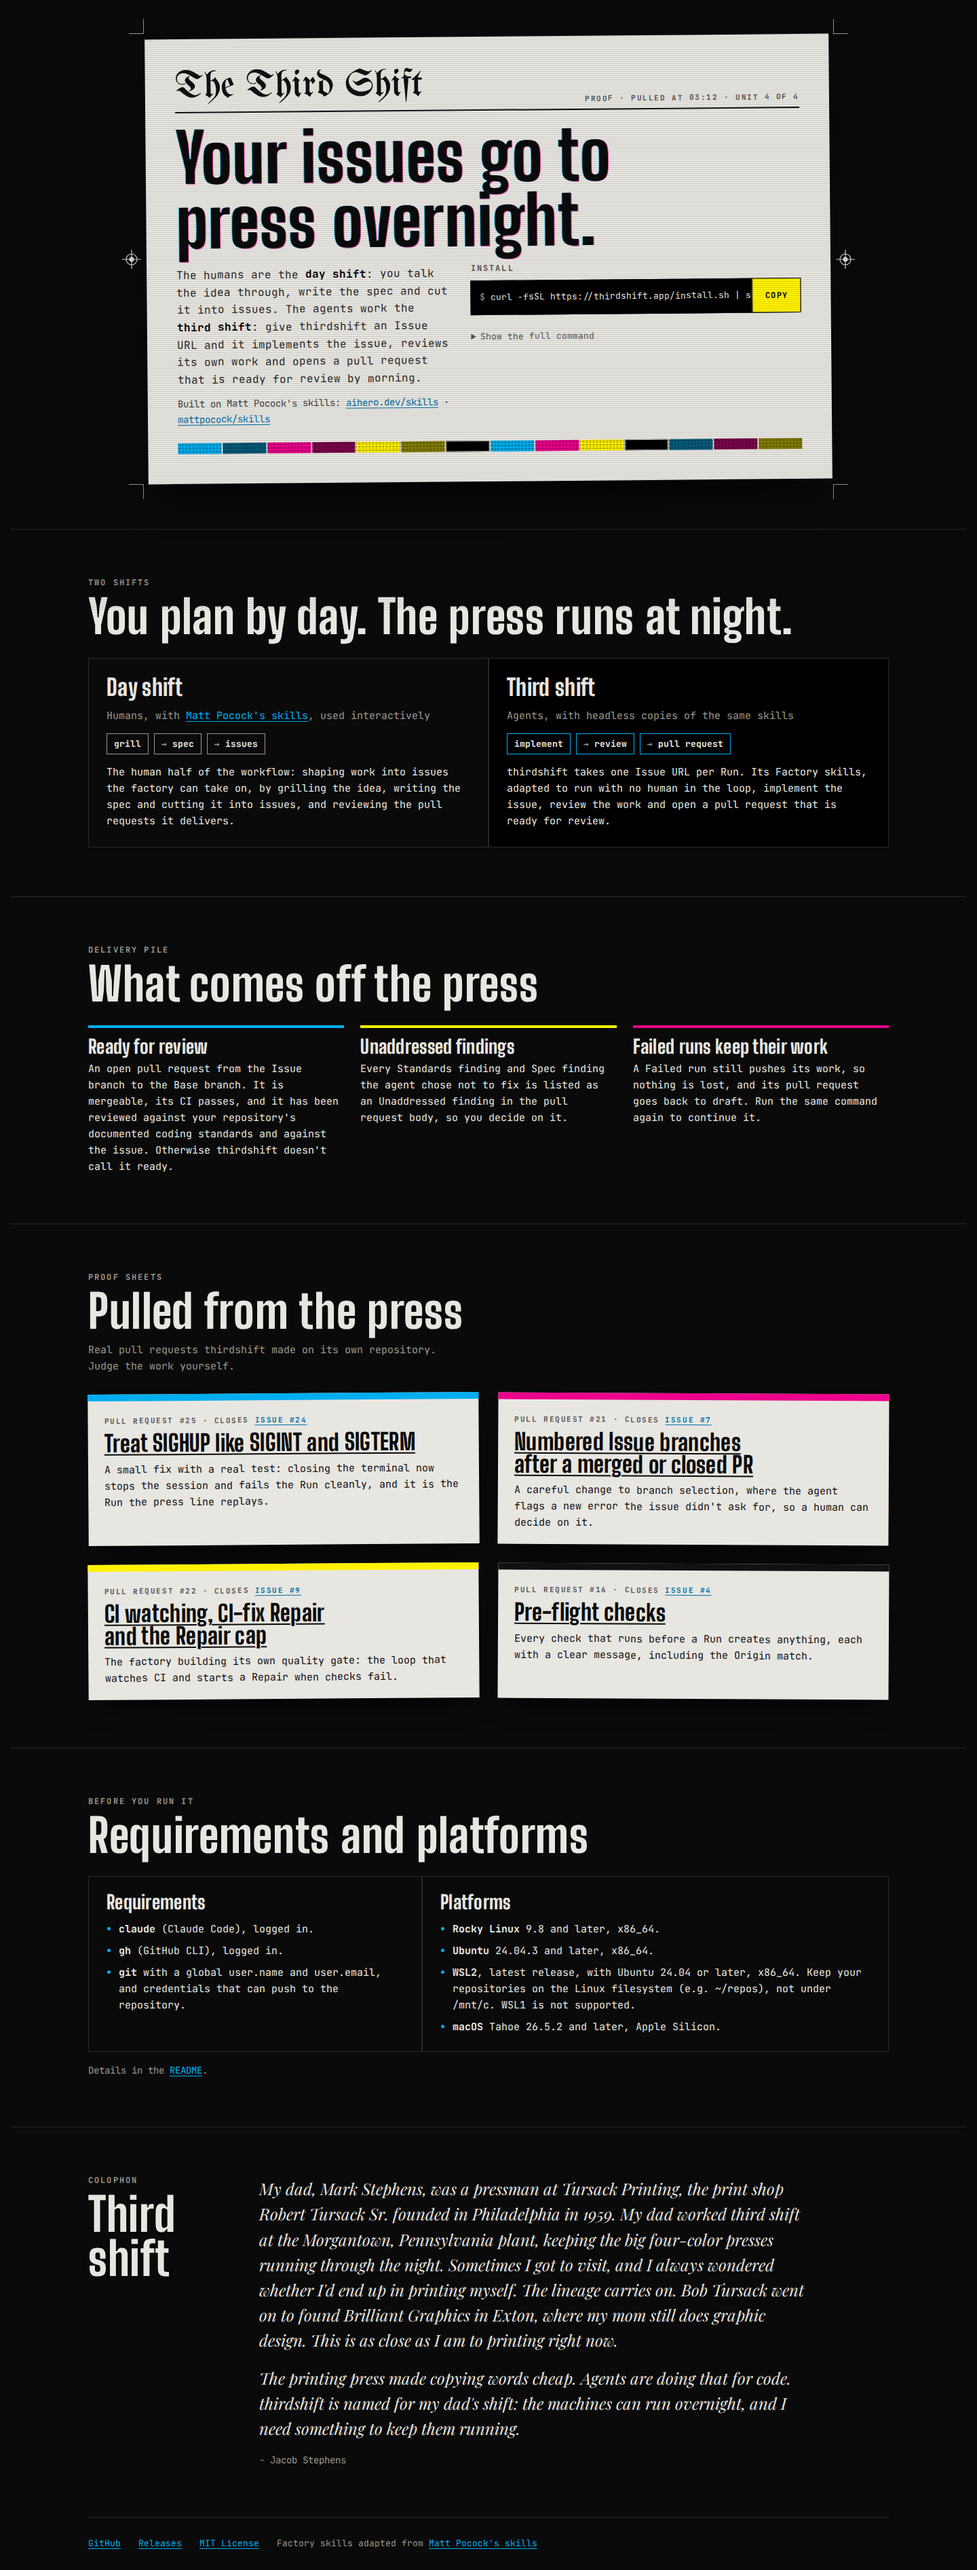
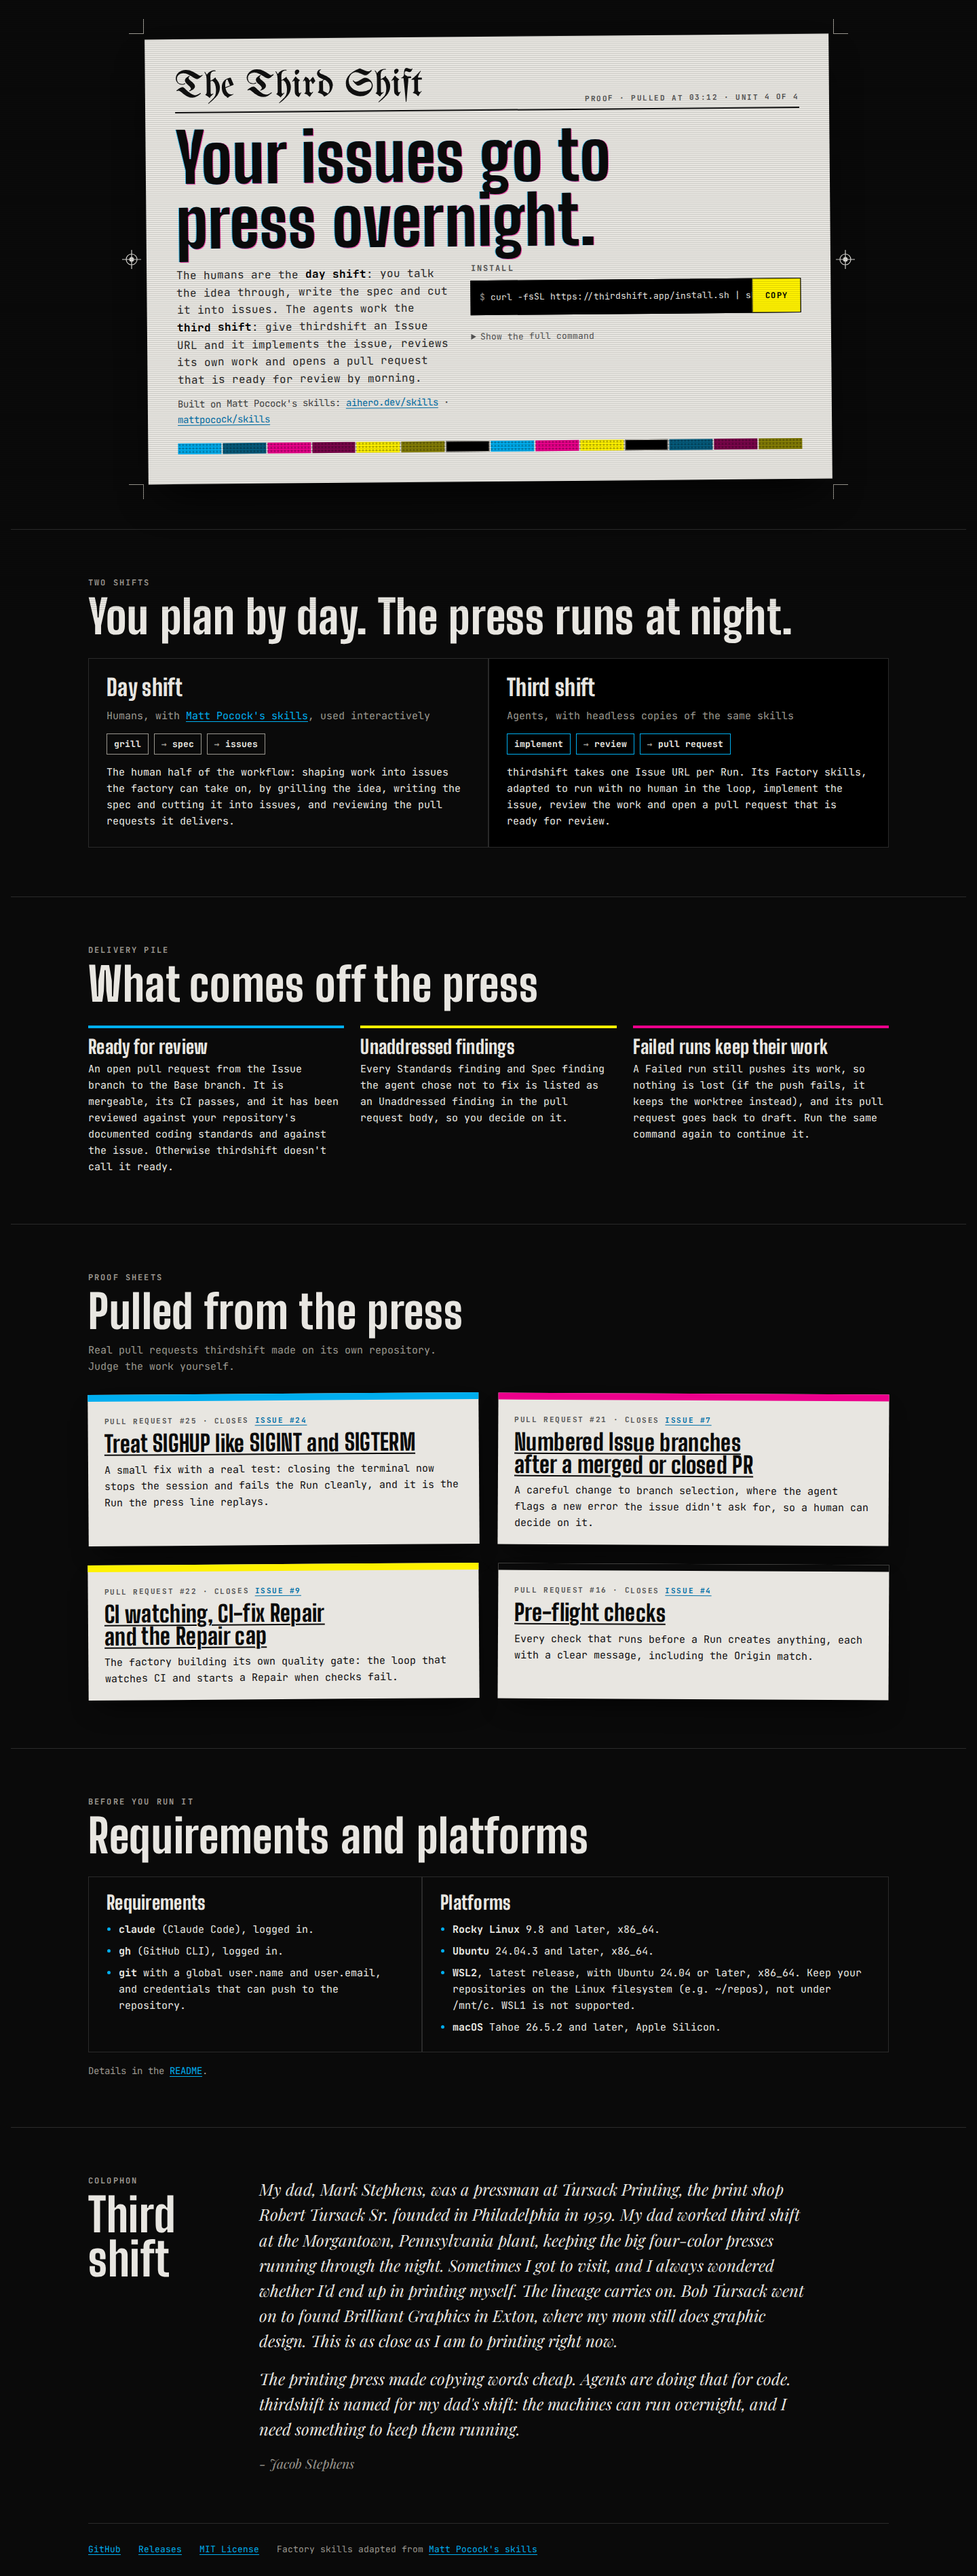
Address review: share the slug rule, set the signature in Playfair, name the cards
Rename .proof to .proof-card and .more to .reqs-note, share the slug
rule with the hero, use var(--k) for the K proof sheet's ink, scope the
off-the-press rule to its cards, set the colophon's signature in
Playfair Display italic, and say a Failed run keeps its worktree when
the push fails. Screenshots retaken.

diff --git a/site/styles.css b/site/styles.css
@@ -100,12 +100,12 @@ body::after { /* scanlines */
   box-shadow: 0 30px 60px -20px rgba(0,0,0,.9), 0 0 0 1px rgba(255,255,255,.05); }
 .paper-sheet .topline { display: flex; justify-content: space-between; align-items: baseline; gap: 12px; flex-wrap: wrap; border-bottom: 2px solid #111; padding-bottom: 8px; }
 .paper-sheet .mark { display: block; height: clamp(30px, 5vw, 52px); width: auto; fill: currentColor; }
-.paper-sheet .slug { font: 700 11px/1.3 var(--f-mono); letter-spacing: .14em; text-transform: uppercase; color: #555; }
+.paper-sheet .slug, .proof-card .slug { font: 700 11px/1.3 var(--f-mono); letter-spacing: .14em; text-transform: uppercase; color: #555; }
 .paper-sheet h1 { font-size: clamp(44px, 7.2vw, 100px); color: #0b0b0b; }
 .paper-sheet .framing { color: #2a2a2a; font-size: 16px; }
 .paper-sheet .framing b { color: #000; }
 .paper-sheet .credit { color: #444; }
-.paper-sheet a { color: #0070a8; }
+.paper-sheet a, .proof-card .slug a { color: #0070a8; }
 .paper-sheet .colorbar { height: 16px; margin-top: 6px; }
 .paper-sheet .install { border-color: #000; }
 .paper-sheet .install code { font-size: 13px; padding-inline: 12px; }
@@ -146,22 +146,20 @@ body::after { /* scanlines */
 /* ---------- What comes off the press ---------- */
 .offpress { display: grid; grid-template-columns: repeat(3, minmax(0, 1fr)); gap: 24px; }
 @media (max-width: 820px) { .offpress { grid-template-columns: 1fr; } }
-.offpress div { display: grid; gap: 8px; align-content: start; border-top: 4px solid var(--ink); padding-top: 14px; }
+.offpress > div { display: grid; gap: 8px; align-content: start; border-top: 4px solid var(--ink); padding-top: 14px; }
 .offpress h3 { font-size: 28px; }
 .offpress p { margin: 0; }
 
 /* ---------- Proof sheets ---------- */
 .proofs { list-style: none; margin: 0; padding: 0; display: grid; grid-template-columns: repeat(2, minmax(0, 1fr)); gap: 28px; }
 @media (max-width: 760px) { .proofs { grid-template-columns: 1fr; } }
-.proof { background: var(--paper); color: #111; padding: 22px 24px 20px; display: grid; gap: 10px; align-content: start;
+.proof-card { background: var(--paper); color: #111; padding: 22px 24px 20px; display: grid; gap: 10px; align-content: start;
   border-top: 10px solid var(--ink); box-shadow: 0 20px 40px -18px rgba(0,0,0,.9); }
-.proof:nth-child(odd) { transform: rotate(-.4deg); } .proof:nth-child(even) { transform: rotate(.3deg); }
-.proof h3 { font-size: clamp(26px, 3vw, 34px); }
-.proof h3 a { color: #0b0b0b; text-decoration-thickness: 2px; }
-.proof h3 a:hover { color: #0070a8; }
-.proof p { margin: 0; }
-.proof .slug { font: 700 11px/1.3 var(--f-mono); letter-spacing: .14em; text-transform: uppercase; color: #555; }
-.proof .slug a { color: #0070a8; }
+.proof-card:nth-child(odd) { transform: rotate(-.4deg); } .proof-card:nth-child(even) { transform: rotate(.3deg); }
+.proof-card h3 { font-size: clamp(26px, 3vw, 34px); }
+.proof-card h3 a { color: #0b0b0b; text-decoration-thickness: 2px; }
+.proof-card h3 a:hover { color: #0070a8; }
+.proof-card p { margin: 0; }
 
 /* ---------- Requirements and platforms ---------- */
 .reqs { display: grid; grid-template-columns: minmax(0, 1fr) minmax(0, 1.4fr); gap: 2px; background: var(--rule); border: 1px solid var(--rule); }
@@ -170,8 +168,7 @@ body::after { /* scanlines */
 .reqs h3 { font-size: 28px; }
 .reqs ul { margin: 0; padding-left: 1.2em; display: grid; gap: 8px; }
 .reqs li::marker { color: var(--c); }
-.reqs b { font-weight: 700; }
-.more { margin: 16px 0 0; font-size: 14px; color: var(--dim); }
+.reqs-note { margin: 16px 0 0; font-size: 14px; color: var(--dim); }
 
 /* ---------- Colophon ---------- */
 .colophon { display: grid; grid-template-columns: minmax(0, 220px) minmax(0, 1fr); gap: 32px; }
@@ -179,7 +176,7 @@ body::after { /* scanlines */
 .colophon .sec-head { margin: 0; align-content: start; }
 .colophon blockquote { margin: 0; font: italic 400 clamp(19px, 2.2vw, 24px)/1.55 var(--f-colo); max-width: 58ch; display: grid; gap: 18px; }
 .colophon blockquote p { margin: 0; }
-.colophon cite { font-style: normal; font-family: var(--f-mono); font-size: 14px; color: var(--dim); }
+.colophon cite { font-size: .8em; color: var(--dim); }
 
 /* ---------- Footer ---------- */
 .foot { border-top: 1px solid var(--rule); padding-block: 28px; display: flex; flex-wrap: wrap; gap: 10px 26px; font-size: 13px; color: var(--dim); }

diff --git a/site/index.html b/site/index.html
@@ -75,7 +75,7 @@
       <div class="offpress">
         <div style="--ink:var(--c)"><h3>Ready for review</h3><p>An open pull request from the Issue branch to the Base branch. It is mergeable, its CI passes, and it has been reviewed against your repository's documented coding standards and against the issue. Otherwise thirdshift doesn't call it ready.</p></div>
         <div style="--ink:var(--y)"><h3>Unaddressed findings</h3><p>Every Standards finding and Spec finding the agent chose not to fix is listed as an Unaddressed finding in the pull request body, so you decide on it.</p></div>
-        <div style="--ink:var(--m)"><h3>Failed runs keep their work</h3><p>A Failed run still pushes its work, so nothing is lost, and its pull request goes back to draft. Run the same command again to continue it.</p></div>
+        <div style="--ink:var(--m)"><h3>Failed runs keep their work</h3><p>A Failed run still pushes its work, so nothing is lost (if the push fails, it keeps the worktree instead), and its pull request goes back to draft. Run the same command again to continue it.</p></div>
       </div>
     </div>
   </section>
@@ -87,16 +87,16 @@
     <div class="wrap">
       <div class="sec-head"><p class="eyebrow">Proof sheets</p><h2 id="proofs-title">Pulled from the press</h2><p class="lede">Real pull requests thirdshift made on its own repository. Judge the work yourself.</p></div>
       <ul class="proofs">
-        <li class="proof" style="--ink:var(--c)"><p class="slug">Pull request #25 · closes <a href="https://github.com/JacobStephens2/thirdshift/issues/24">issue #24</a></p>
+        <li class="proof-card" style="--ink:var(--c)"><p class="slug">Pull request #25 · closes <a href="https://github.com/JacobStephens2/thirdshift/issues/24">issue #24</a></p>
           <h3><a href="https://github.com/JacobStephens2/thirdshift/pull/25">Treat SIGHUP like SIGINT and SIGTERM</a></h3>
           <p>A small fix with a real test: closing the terminal now stops the session and fails the Run cleanly, and it is the Run the press line replays.</p></li>
-        <li class="proof" style="--ink:var(--m)"><p class="slug">Pull request #21 · closes <a href="https://github.com/JacobStephens2/thirdshift/issues/7">issue #7</a></p>
+        <li class="proof-card" style="--ink:var(--m)"><p class="slug">Pull request #21 · closes <a href="https://github.com/JacobStephens2/thirdshift/issues/7">issue #7</a></p>
           <h3><a href="https://github.com/JacobStephens2/thirdshift/pull/21">Numbered Issue branches after a merged or closed PR</a></h3>
           <p>A careful change to branch selection, where the agent flags a new error the issue didn't ask for, so a human can decide on it.</p></li>
-        <li class="proof" style="--ink:var(--y)"><p class="slug">Pull request #22 · closes <a href="https://github.com/JacobStephens2/thirdshift/issues/9">issue #9</a></p>
+        <li class="proof-card" style="--ink:var(--y)"><p class="slug">Pull request #22 · closes <a href="https://github.com/JacobStephens2/thirdshift/issues/9">issue #9</a></p>
           <h3><a href="https://github.com/JacobStephens2/thirdshift/pull/22">CI watching, CI-fix Repair and the Repair cap</a></h3>
           <p>The factory building its own quality gate: the loop that watches CI and starts a Repair when checks fail.</p></li>
-        <li class="proof" style="--ink:#111"><p class="slug">Pull request #16 · closes <a href="https://github.com/JacobStephens2/thirdshift/issues/4">issue #4</a></p>
+        <li class="proof-card" style="--ink:var(--k)"><p class="slug">Pull request #16 · closes <a href="https://github.com/JacobStephens2/thirdshift/issues/4">issue #4</a></p>
           <h3><a href="https://github.com/JacobStephens2/thirdshift/pull/16">Pre-flight checks</a></h3>
           <p>Every check that runs before a Run creates anything, each with a clear message, including the Origin match.</p></li>
       </ul>
@@ -122,7 +122,7 @@
             <li><b>macOS</b> Tahoe 26.5.2 and later, Apple Silicon.</li>
           </ul></div>
       </div>
-      <p class="more">Details in the <a href="https://github.com/JacobStephens2/thirdshift#supported-platforms">README</a>.</p>
+      <p class="reqs-note">Details in the <a href="https://github.com/JacobStephens2/thirdshift#supported-platforms">README</a>.</p>
     </div>
   </section>
 
